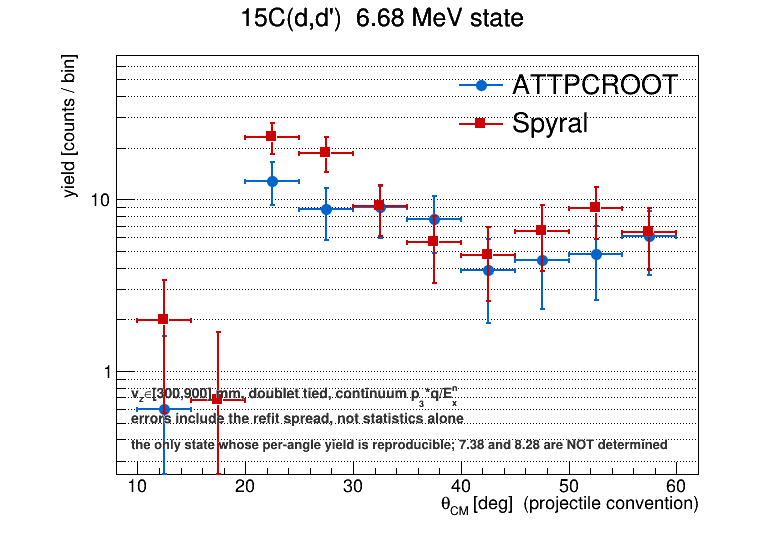
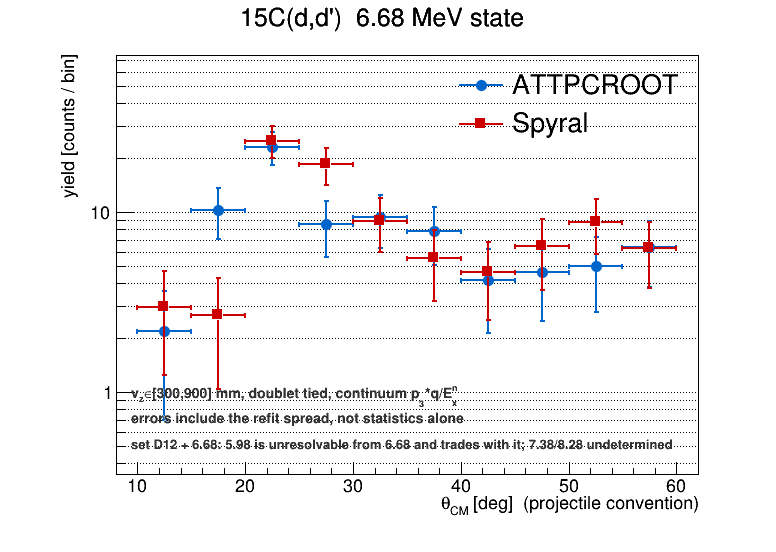
C15p/levels_15C: a second unresolvable pair, and the first stable angular distribution
The 6.68 yield collapsed in the forward two theta_CM bins -- the ones
holding the most data.  The suspect was the ground-state tail.  That was
wrong: printing the model piece by piece at Ex = 6.68 gives a g.s. tail of
0.00 in every bin.

The cause is the 5.98 BW tail.  At theta_CM 15-20 it supplies 14.32 counts
at Ex = 6.68 while the 6.68 itself fits to ZERO; at 20-25 they split
10.62/12.52; beyond that 5.98 drops to zero and 6.68 carries everything.
5.98 and 6.68 are 0.70 MeV apart against a forward-bin response FWHM of
0.93-1.11 -- below resolution.  Same pathology as the 4.43/4.93 doublet,
one level up, invisible until now because it only bites where the
statistics are highest.

Dropping 5.98:

                        D12 + 5.98 + 6.68      D12 + 6.68 only
  ATTPCROOT forward      0.6   0.0  12.8      2.2  10.3  22.9
            bins           9/10, 1 zero         10/10, 0 zeros
            refit        0.62 .. 0.94         0.63 .. 0.90 (med 0.84)
  Spyral    refit        0.39 .. 1.57         0.54 .. 1.24 (med 0.90)

ADOPTED for the angular distributions: vz in [300,900], TIE12 ON,
resonance set D12 + 6.68 only, continuum p3* q / Ex^n at the corrected Ex
zero.

The 6.68 angular distribution is the one per-angle measurement this
analysis supports: ten bins populated in both codes with no zeros, and the
two codes now agree across the whole 10-60 deg range within errors that
include the refit spread.  It peaks near 22 deg and falls.  DWBA is
[…]

diff --git a/macro/Unpack_HDF5/C15p/levels_15C/scripts/final668.C b/macro/Unpack_HDF5/C15p/levels_15C/scripts/final668.C
@@ -3,13 +3,17 @@
 // Adopted configuration:
 //   vz in [300,900]   -- above the Ex calibration break, below the acceptance cliff
 //   TIE12 ON          -- the 4.43/4.93 doublet is unresolvable and must be tied
-//   resonance set D12 + 5.98 + 6.68 -- 7.38 and 8.28 are NOT determined (yields swing through 0)
+//   resonance set D12 + 6.68 -- 5.98 is unresolvable from 6.68 and trades with it;
+//                               7.38 and 8.28 are not determined (yields swing through 0)
 //   continuum  p3*(M) q(M) / Ex^n, evaluated at the zero-point-corrected Ex
 // Stability is quoted from refitting under a 5 % change in statistics (VZLO 300 -> 350).
 void final668(){
   setCM(10,5,60);
   RH::exLo=3.0; RH::exHi=9.0; RH::ONETERM=true; RH::BKG=RH::HALON; RH::TIE12=true;
-  bool keep[6]={true,true,true,true,false,false};
+  // 5.98 is DROPPED: it sits 0.70 MeV from 6.68 against a forward response FWHM of
+  // 0.93-1.11, is not resolvable from it, and the two trade -- at theta_CM 15-20 the
+  // 5.98 tail supplied 14.32 counts at Ex = 6.68 while the 6.68 itself fitted to zero.
+  bool keep[6]={true,true,false,true,false,false};
   for(int i=0;i<RH::NR;i++) RH::USE[i]=keep[i];
   Cfg b0=CFG[0], b1=CFG[1];
   gStyle->SetOptStat(0);
@@ -27,8 +31,10 @@ void final668(){
     printf("\n==== %s : 6.68 MeV angular distribution (adopted configuration) ====\n",CFG[ic].nm);
     printf("   %-12s %12s %12s   %s\n","theta_CM","yield","refit","stability");
     for(int b=0;b<NCM;b++){
-      double y0=(b<(int)A[0].size()&&2<(int)A[0][b].size())?A[0][b][2]:0;
-      double y1=(b<(int)A[1].size()&&2<(int)A[1][b].size())?A[1][b][2]:0;
+      int k0=(b<(int)A[0].size())?(int)A[0][b].size()-1:-1;   // 6.68 is the LAST row entry
+      double y0=(k0>=0)?A[0][b][k0]:0;
+      int k1=(b<(int)A[1].size())?(int)A[1][b].size()-1:-1;
+      double y1=(k1>=0)?A[1][b][k1]:0;
       if(y0<=1e-3) continue;
       double x=TCM0+(b+0.5)*TCMSTEP;
       // uncertainty: the larger of sqrt(N) and the refit spread, scaled out of the 6% stat change
@@ -50,7 +56,7 @@ void final668(){
   tx->DrawLatex(0.17,0.25,"#splitline{v_{z}#in[300,900] mm, doublet tied, continuum p_{3}*q/E_{x}^{n}}"
                           "{errors include the refit spread, not statistics alone}");
   tx->SetTextSize(0.026);
-  tx->DrawLatex(0.17,0.185,"the only state whose per-angle yield is reproducible; 7.38 and 8.28 are NOT determined");
+  tx->DrawLatex(0.17,0.185,"set D12 + 6.68: 5.98 is unresolvable from 6.68 and trades with it; 7.38/8.28 undetermined");
   c->SaveAs("/home/yassid/fair_install/ATTPCROOTv2-OpenKF/macro/Unpack_HDF5/C15p/levels_15C/figures/angdist_668_adopted.png");
   printf("\n   wrote angdist_668_adopted.png\n");
   CFG[0]=b0; CFG[1]=b1; VZLO=0; RH::TIE12=false;

diff --git a/macro/Unpack_HDF5/C15p/levels_15C/scripts/fwddiag.C b/macro/Unpack_HDF5/C15p/levels_15C/scripts/fwddiag.C
@@ -1,0 +1,42 @@
+#include "resfitC.C"
+// Why does the 6.68 yield collapse in the forward two theta_CM bins, which hold the MOST data?
+// Suspect: the ground-state tail.  Those bins have the largest elastic peak, and the response is
+// a bifurcated Gaussian with EXPONENTIAL tails that reach all the way under Ex 3-9.  If the tail
+// is overestimated it eats the resonance.  Compare, at Ex = 6.68, the three model pieces against
+// the data.
+void fwddiag(){
+  setCM(10,5,60);
+  RH::exLo=3.0; RH::exHi=9.0; RH::ONETERM=true; RH::BKG=RH::HALON; RH::TIE12=true;
+  bool keep[6]={true,true,true,true,false,false};
+  for(int i=0;i<RH::NR;i++) RH::USE[i]=keep[i];
+  Cfg b0=CFG[0], b1=CFG[1];
+  for(int ic=0;ic<2;ic++){
+    CFG[0]=b0; CFG[1]=b1; CFG[ic].vzHi=900; VZLO=300; BB_QUIET=true; binbuild();
+    std::vector<std::vector<double>> out;
+    rhRun(CFG[ic],NCM,false,&out);
+    printf("\n======== %s : anatomy of the model at Ex = 6.68 ========\n",CFG[ic].nm);
+    printf("   %-9s %8s %9s  | %8s %8s %8s %8s | %8s %8s\n",
+           "theta_CM","N","data@6.7","contin.","D12 tail","5.98 tail","6.68 BW","model","resid");
+    for(int b=0;b<NCM;b++){
+      RH::Bin& d=RH::B[b]; if(!d.h) continue;
+      double X=(6.68-0.119)+d.gsMu;  // where the 6.68 peak sits
+      int ib=d.h->FindBin(X); double dat=d.h->GetBinContent(ib);
+      double Xt=X-d.gsMu;
+      double gs = d.gsAmp*shapeGT(X,d.gsMu,d.sgL,d.sgR,d.alL,d.alR);
+      double e5 = d.e5Amp*shapeGT(X,d.gsMu+0.740,d.sgL,d.sgR,d.alL,d.alR);
+      double bg = RH::LASTBG[b]*RH::bshape(Xt,RH::LASTP0)*(d.ga?d.ga->Eval(Xt):1.0);
+      double a443=d.in[0]?RH::LASTA[b][0]*d.T[0].Eval(X):0.0;   // the TIED doublet, at 6.68
+      double a493=d.in[1]?RH::LASTA[b][0]*d.T[1].Eval(X):0.0;
+      double a598=d.in[2]?RH::LASTA[b][2]*d.T[2].Eval(X):0.0;   // 5.98 BW tail reaching 6.68
+      double bw  =d.in[3]?RH::LASTA[b][3]*d.T[3].Eval(X):0.0;   // the 6.68 itself
+      double tot=gs+e5+bg+a443+a493+a598+bw;
+      printf("   %3.0f-%-5.0f %8.0f %9.1f  | %8.2f %8.2f %8.2f %8.2f | %8.2f %8.2f\n",
+             d.cmLo,d.cmHi,d.N,dat,bg,a443+a493,a598,bw,tot,dat-tot); }
+    printf("   response of the forward bins: ");
+    for(int b=0;b<2;b++) printf("bin%d FWHM_L %.2f FWHM_R %.2f alL %.2f alR %.2f gsAmp %.0f   ",
+        b,2.355*RH::B[b].sgL,2.355*RH::B[b].sgR,RH::B[b].alL,RH::B[b].alR,RH::B[b].gsAmp);
+    printf("\n");
+  }
+  CFG[0]=b0; CFG[1]=b1; VZLO=0; RH::TIE12=false;
+  for(int i=0;i<RH::NR;i++) RH::USE[i]=true; BB_QUIET=true; binbuild();
+}

diff --git a/macro/Unpack_HDF5/C15p/levels_15C/scripts/pair598.C b/macro/Unpack_HDF5/C15p/levels_15C/scripts/pair598.C
@@ -1,0 +1,46 @@
+#include "resfitC.C"
+// 5.98 and 6.68 are 0.70 MeV apart against a forward response FWHM of 0.93-1.11: NOT resolvable,
+// and the anatomy shows them trading (at theta_CM 15-20 the 5.98 tail gives 14.32 at Ex = 6.68
+// while the 6.68 itself fits to 0.00).  That is the forward collapse.
+// Does dropping 5.98 recover a stable 6.68 across ALL ten angular bins?
+void pair598(){
+  setCM(10,5,60);
+  RH::exLo=3.0; RH::exHi=9.0; RH::ONETERM=true; RH::BKG=RH::HALON; RH::TIE12=true;
+  Cfg b0=CFG[0], b1=CFG[1];
+  struct S{const char* nm; bool u[6];};
+  S sets[2]={{"D12 + 5.98 + 6.68 (as before)",{true,true,true,true,false,false}},
+             {"D12 + 6.68 only              ",{true,true,false,true,false,false}}};
+  for(auto&st:sets){
+    printf("\n============ resonance set: %s ============\n",st.nm);
+    for(int ic=0;ic<2;ic++){
+      std::vector<std::vector<double>> A[2];
+      for(int pass=0;pass<2;pass++){
+        for(int i=0;i<RH::NR;i++) RH::USE[i]=st.u[i];
+        CFG[0]=b0; CFG[1]=b1; CFG[ic].vzHi=900; VZLO = pass? 350 : 300;
+        BB_QUIET=true; binbuild();
+        A[pass].clear(); rhRun(CFG[ic],NCM,false,&A[pass]); }
+      // 6.68 is the LAST entry of the row in both sets
+      printf("   %-10s  6.68 yield per theta_CM bin (and refit at VZLO 350)\n",CFG[ic].nm);
+      printf("      %-10s","theta_CM"); for(int b=0;b<NCM;b++) printf(" %6.0f",TCM0+(b+0.5)*TCMSTEP);
+      printf("\n      %-10s","yield");
+      int nz=0,ng=0;
+      std::vector<double> rat;
+      for(int b=0;b<NCM;b++){
+        int k=(b<(int)A[0].size())?(int)A[0][b].size()-1:-1;
+        double y0=(k>=0)?A[0][b][k]:0;
+        int k1=(b<(int)A[1].size())?(int)A[1][b].size()-1:-1;
+        double y1=(k1>=0)?A[1][b][k1]:0;
+        printf(" %6.1f",y0); if(y0<1e-3) nz++; else { ng++; if(y1>0) rat.push_back(y1/y0); } }
+      printf("\n      %-10s","refit");
+      for(int b=0;b<NCM;b++){ int k1=(b<(int)A[1].size())?(int)A[1][b].size()-1:-1;
+        printf(" %6.1f",(k1>=0)?A[1][b][k1]:0); }
+      std::sort(rat.begin(),rat.end());
+      printf("\n      bins with yield: %d/%d   zeros: %d", ng, NCM, nz);
+      if(!rat.empty()) printf("   refit ratio %.2f .. %.2f (median %.2f)",
+                              rat.front(),rat.back(),rat[rat.size()/2]);
+      printf("\n");
+    }
+  }
+  CFG[0]=b0; CFG[1]=b1; VZLO=0; RH::TIE12=false;
+  for(int i=0;i<RH::NR;i++) RH::USE[i]=true; BB_QUIET=true; binbuild();
+}

diff --git a/macro/Unpack_HDF5/C15p/levels_15C/scripts/resfitC.C b/macro/Unpack_HDF5/C15p/levels_15C/scripts/resfitC.C
@@ -277,7 +277,11 @@ double rhRun(const Cfg& k,int nbin,bool talk,std::vector<std::vector<double>>* o
      const double* q=p+1+b*RH::nper();
      RH::LASTBG[b]=std::max(0.0,q[1]);
      for(int i=0;i<RH::NR;i++) RH::LASTA[b][i]=0;
-     { int jj=0; for(int i=(RH::TIE12?2:0);i<RH::NR;i++){ if(!RH::USE[i]) continue;
+     // ⚠ with TIE12 on, q[2] is the DOUBLET amplitude, so the free resonances start at q[3].
+     // Starting jj at 0 here read every amplitude one slot low.
+     { int jj=(RH::TIE12?1:0);
+       if(RH::TIE12){ RH::LASTA[b][0]=d.in[0]?std::max(0.0,q[2]):0.0; }
+       for(int i=(RH::TIE12?2:0);i<RH::NR;i++){ if(!RH::USE[i]) continue;
          RH::LASTA[b][i]=d.in[i]?std::max(0.0,q[2+jj]):0.0; jj++; } }
      std::vector<double> row; int j=0;
      if(RH::TIE12){ row.push_back(d.in[0]?q[2]*d.T[0].Eval((RH::EPP6[0]-RH::PPGS6)+d.gsMu):0); j=1; }

diff --git a/macro/Unpack_HDF5/C15p/levels_15C/LEVELS_15C.md b/macro/Unpack_HDF5/C15p/levels_15C/LEVELS_15C.md
@@ -1743,18 +1743,54 @@ Dropping them (`redset.C`) makes ATTPCROOT's 6.68 clean in all ten theta_CM bins
 no zeros) -- but the tied doublet then vanishes in half the bins (n = 10 -> 5), which is the fit
 telling us it is under-determined either way.
 
-**⇒ The 6.68 MeV angular distribution is the one per-angle measurement this analysis supports.**
-Figure `figures/angdist_668_adopted.png`, adopted configuration: vz in [300,900], TIE12 ON,
-resonance set D12 + 5.98 + 6.68, continuum p3* q / Ex^n at the corrected Ex zero. The two codes
-agree in shape from 20 to 60 deg within errors that INCLUDE the refit spread (per-bin stability
-runs 5-40 %). Both collapse in the forward two bins (10-20 deg), which is where the statistics are
-HIGHEST and the elastic tail largest -- that is not yet explained and should be looked at before
-the distribution is used.
+### The forward collapse: a SECOND unresolvable pair
+
+The forward two bins collapsed in both codes. The suspect was the ground-state tail -- those bins
+hold the largest elastic peak and the response has exponential tails. **That was wrong**: printing
+the model piece by piece at Ex = 6.68 (`scripts/fwddiag.C`) gives a g.s. tail of 0.00 in every bin.
+
+The actual cause is the **5.98 BW tail**:
+
+```
+  ATTPCROOT     N    data@6.7 | contin. D12 tail 5.98 tail  6.68 BW |  model  resid
+   10-15      8248     19.0   |  15.60     0.01     1.17     0.56   |  17.35   1.65
+   15-20     38490     29.0   |  17.02     0.53    14.32     0.00   |  31.87  -2.87
+   20-25     22199     33.0   |  10.61     0.48    10.62    12.52   |  34.23  -1.23
+   25-30      4852      8.0   |   7.14     0.38     0.00     8.60   |  16.12  -8.12
+```
+
+At theta_CM 15-20 the 5.98 tail supplies 14.32 counts at Ex = 6.68 while the 6.68 itself fits to
+ZERO; at 20-25 they split 10.62 / 12.52; beyond that 5.98 drops to zero and 6.68 carries
+everything. **5.98 and 6.68 are 0.70 MeV apart against a forward-bin response FWHM of 0.93-1.11 --
+below resolution.** It is the same pathology as the 4.43/4.93 doublet, one level up, and it had
+been invisible because it only bites where the statistics are highest.
+
+Dropping 5.98 fixes it (`scripts/pair598.C`):
+
+```
+                           D12 + 5.98 + 6.68        D12 + 6.68 only
+  ATTPCROOT forward bins    0.6   0.0  12.8        2.2  10.3  22.9
+            bins w/ yield     9/10, 1 zero            10/10, 0 zeros
+            refit ratio     0.62 .. 0.94           0.63 .. 0.90  (median 0.84)
+  Spyral    refit ratio     0.39 .. 1.57           0.54 .. 1.24  (median 0.90)
+```
+
+**⇒ ADOPTED CONFIGURATION for the angular distributions:** vz in [300,900], TIE12 ON, resonance
+set **D12 + 6.68 only**, continuum p3* q / Ex^n evaluated at the corrected Ex zero.
+
+**⇒ The 6.68 MeV angular distribution is the one per-angle measurement this analysis supports**
+(`figures/angdist_668_adopted.png`). All ten theta_CM bins are populated in both codes with no
+zeros, the refit spread under a 5 % change in the sample is 0.63-0.90 (ATTPCROOT) and 0.54-1.24
+(Spyral), and the two codes now agree across the WHOLE range 10-60 deg within errors that include
+that spread. The distribution peaks near theta_CM = 22 deg and falls.
+
+One caveat to carry: the median refit ratio is 0.84-0.90 where a 6 % statistics change predicts
+0.94, so there is a residual ~10 % systematic in the absolute yield beyond counting.
 
 ## Where this leaves the programme
 
-- DWBA / L assignment is startable for **6.68 only**, and only after the forward-bin collapse is
-  understood.
+- DWBA / L assignment is **startable now, for 6.68**, using the adopted configuration above. This
+  is the first reproducible angular distribution the analysis has produced.
 - The background systematic on the 4.6 MeV state cannot be re-derived against the continuum model
   while the exponent is window-dependent at the +-0.6 level.
 - The next real lead on the exponent is the **response**: the BW templates are convolved with each
@@ -1763,3 +1799,7 @@ the distribution is used.
   apparent spectrum and lowers n). A second-moment estimate gives only a ~2.5 % differential, so it
   is probably too small -- but it is the only untested difference left and deserves a proper
   numerical convolution rather than an estimate.
+- A bug fixed along the way, worth knowing about: `RH::LASTA` filled the per-bin amplitudes from
+  `q[2+jj]` starting at jj = 0, but with TIE12 ON `q[2]` is the DOUBLET amplitude, so every free
+  resonance was read one slot low. Only the diagnostic path used it (`rhRun`'s own `out` vector
+  was always correct), but it produced one round of wrong anatomy before being caught.
